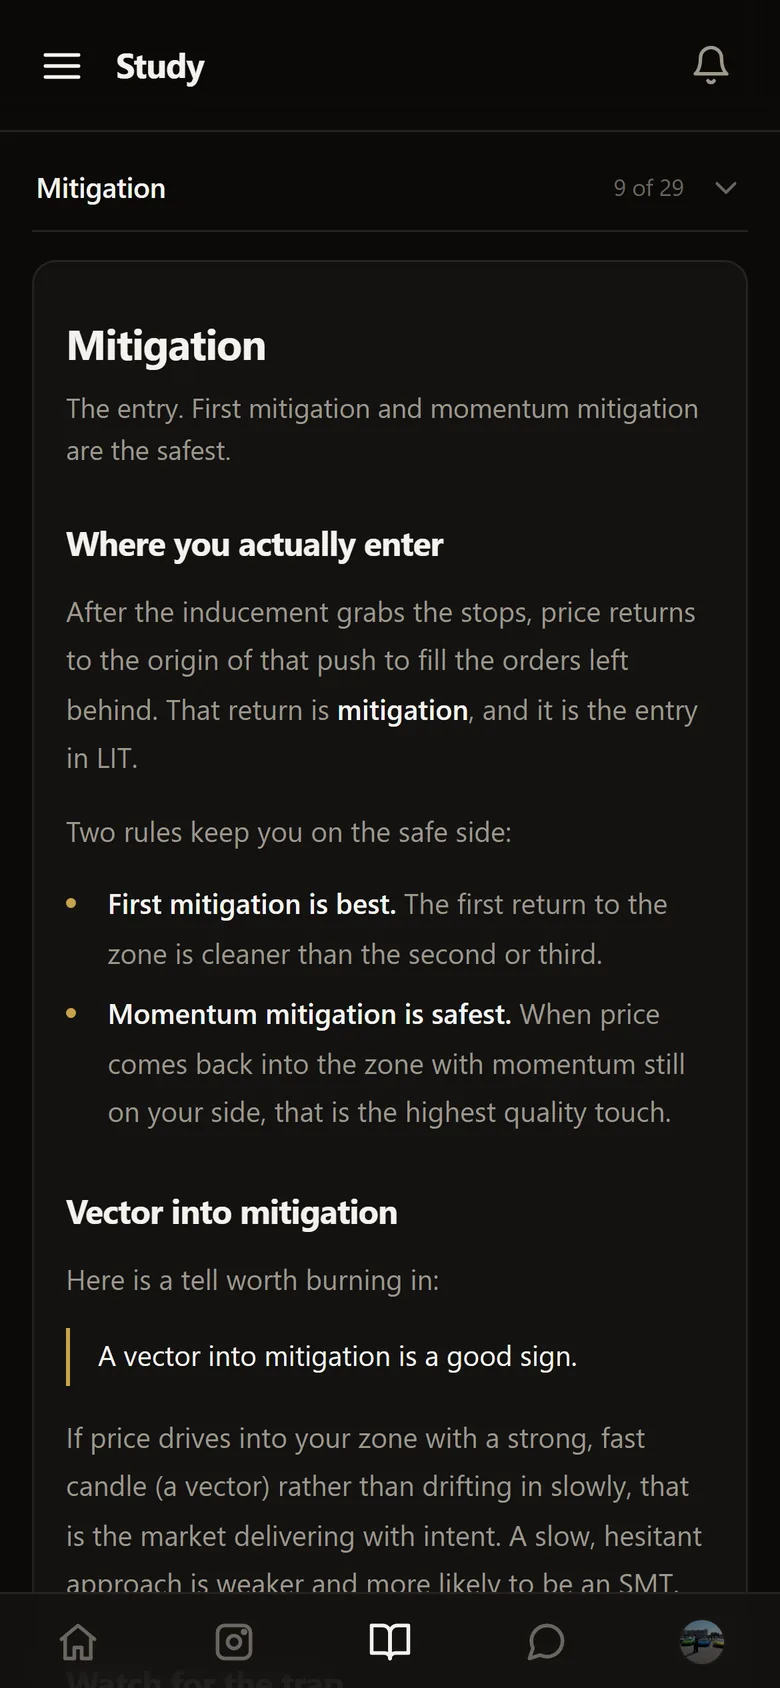
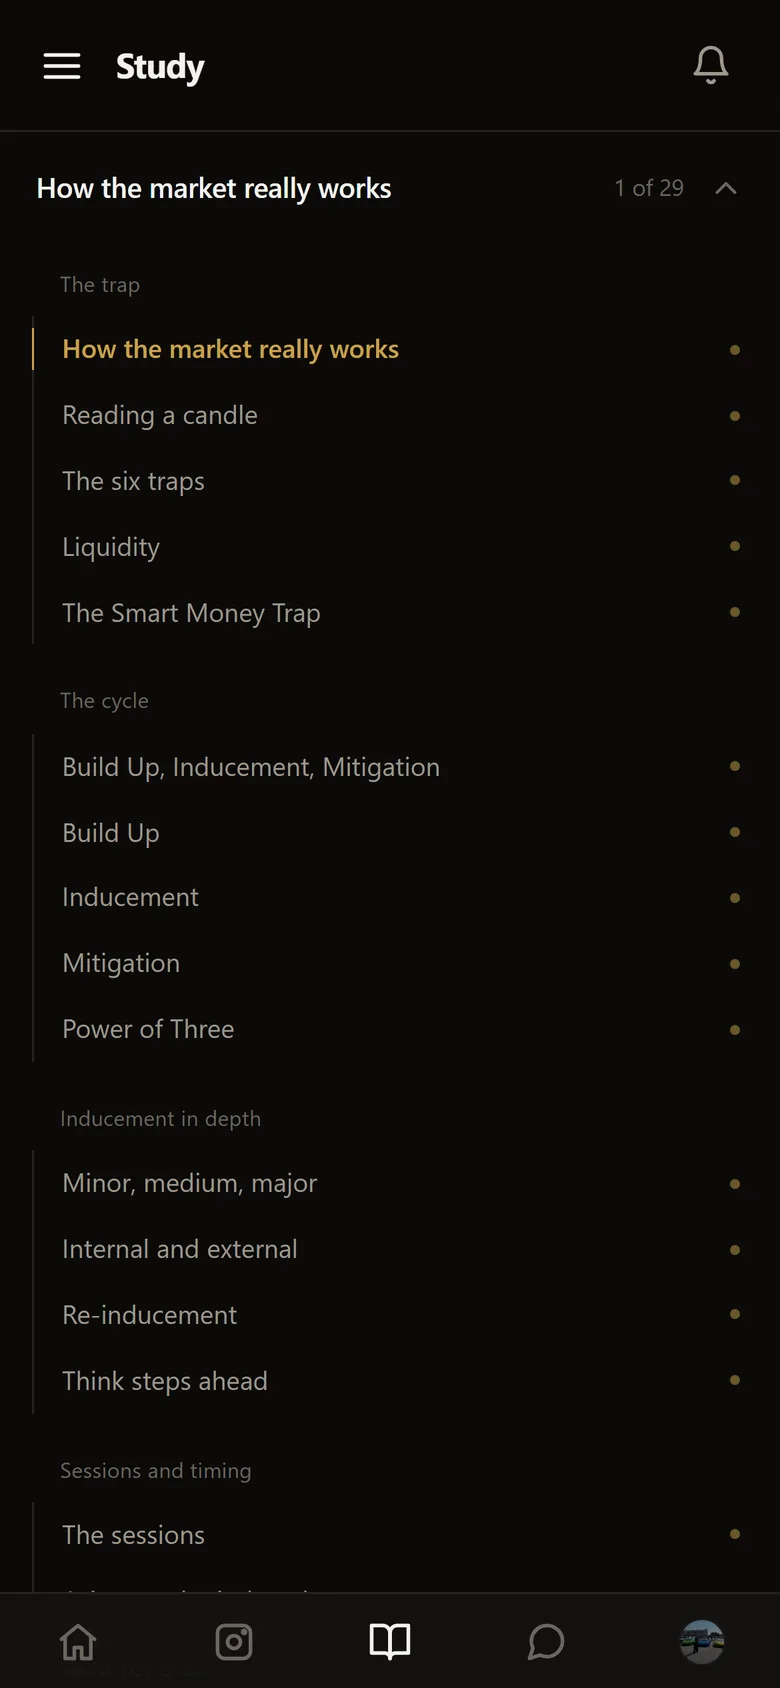
Landing: no lesson body on the public page, no inflated member count
The Study screen showed a paid lesson's text; it is the lesson index
now (titles are public on the sales page, bodies never are). The hero
line drops the member count: landing_stats counted entitlement rows
(course + GEX + LIT per person, 56) rather than people (21); the view is
corrected in migration 0062 and the landing keeps only the Discord count.

diff --git a/index.html b/index.html
@@ -444,7 +444,7 @@
         <button class="btn gshift" data-buy type="button">Get Echelon</button>
         <a class="quiet" href="/echelon/app/">Members sign in</a>
       </div>
-      <p class="fine">lifetime access · no subscription · <span data-echelon-count>members</span> inside · <span data-discord-count>members in the Discord</span></p>
+      <p class="fine">lifetime access · no subscription · <span data-discord-count>members in the Discord</span></p>
     </div></div>
 
     <div class="trades-wrap" id="trades" hidden><div class="col">
@@ -494,7 +494,7 @@
       <span class="label">Inside the app</span>
       <div class="inside-row" aria-label="Screens from the members app">
         <figure><img src="/echelon/assets/screen-overview.webp" alt="Overview: recaps logged, streak, win rate and net R, then the next lesson and the announcements" width="780" height="1688" loading="lazy"><figcaption>Overview</figcaption></figure>
-        <figure><img src="/echelon/assets/screen-lesson.webp" alt="A lesson: Mitigation, where you actually enter" width="780" height="1688" loading="lazy"><figcaption>Study</figcaption></figure>
+        <figure><img src="/echelon/assets/screen-lesson.webp" alt="Study: the lesson index, module by module" width="780" height="1688" loading="lazy"><figcaption>Study</figcaption></figure>
         <figure><img src="/echelon/assets/screen-gex.webp" alt="GEX: today's read, net gamma and the regime, mapped onto NQ" width="780" height="1688" loading="lazy"><figcaption>GEX</figcaption></figure>
         <figure><img src="/echelon/assets/screen-news.webp" alt="News: the week's USD prints with results, holidays and close times" width="780" height="1688" loading="lazy"><figcaption>News</figcaption></figure>
       </div>
